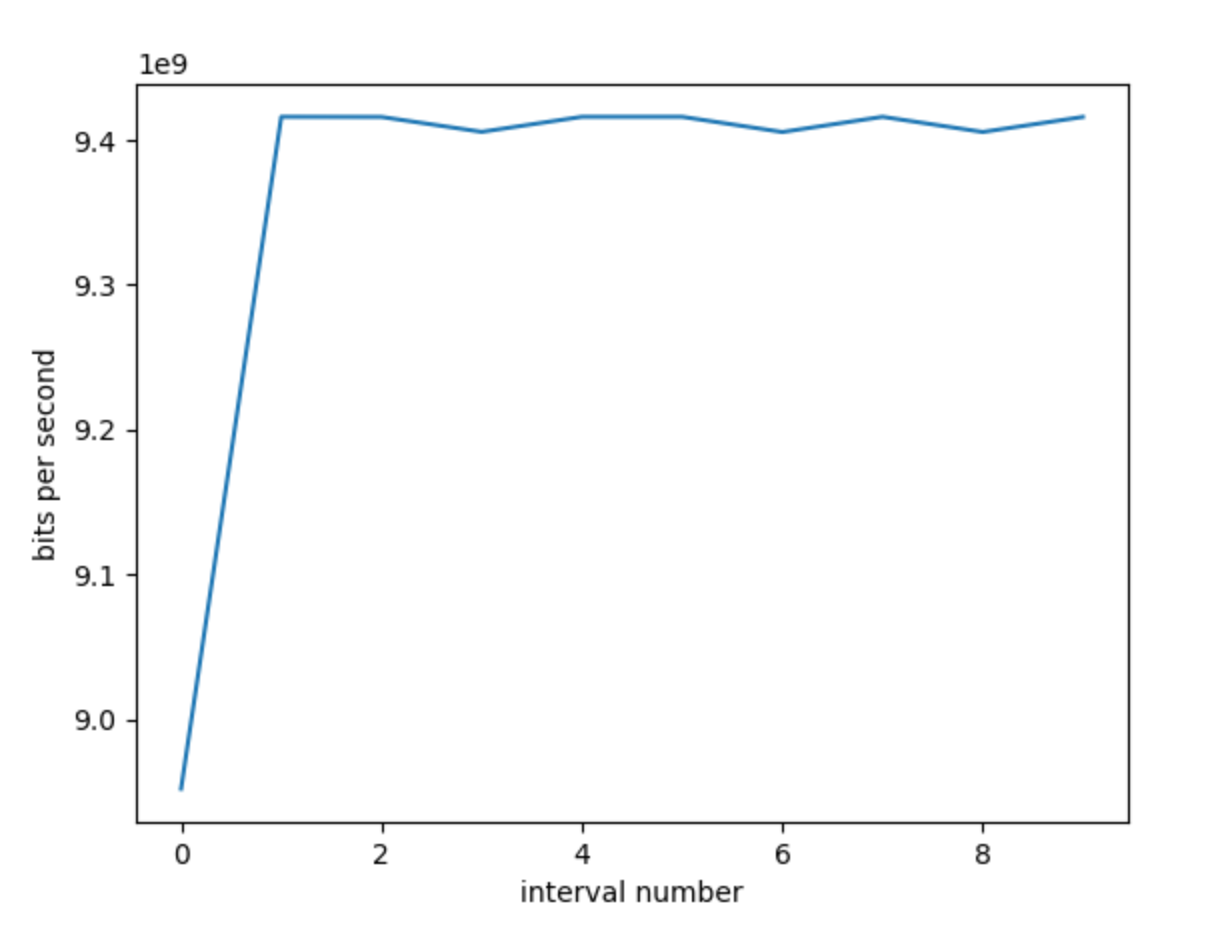
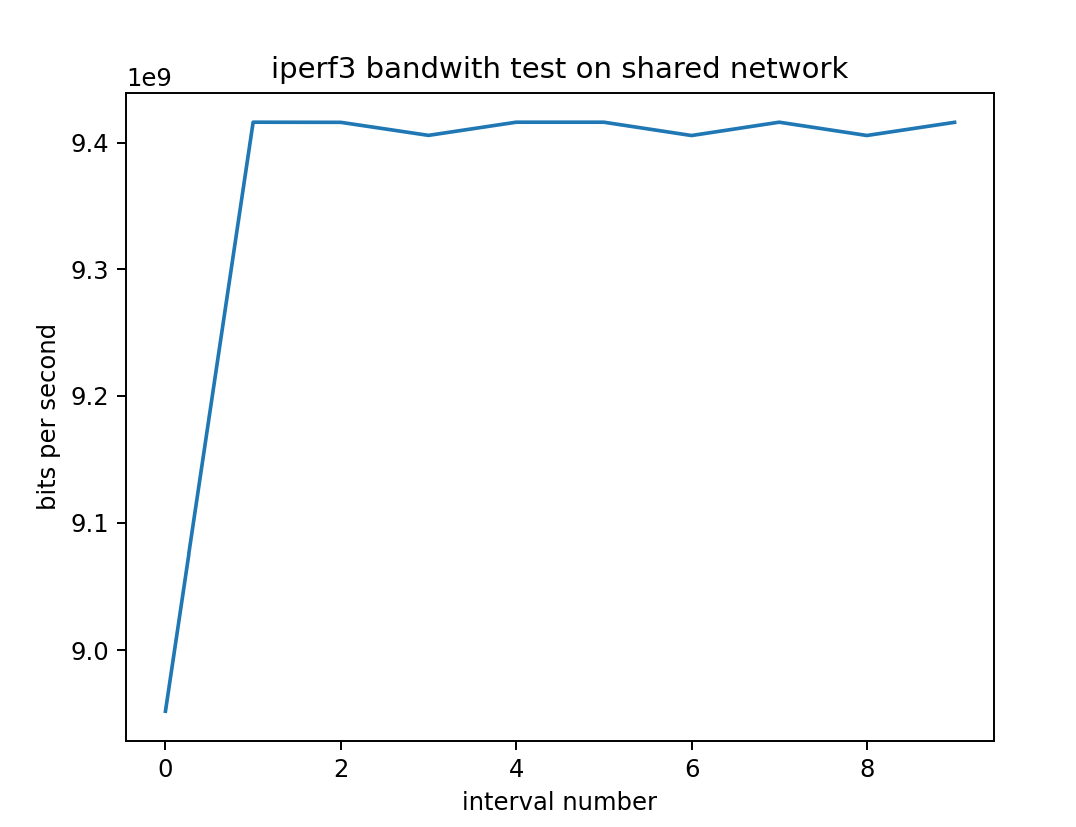
graph title, fixed weird formatting problem

Changed region(s): [[0.0307, 0.0605, 0.9507, 0.9976]]

diff --git a/plot_results.py b/plot_results.py
@@ -17,6 +17,7 @@ def read_data(file):
 
 def plot(data):
     plt.plot(data)
+    plt.title("iperf3 bandwith test on shared network")
     plt.xlabel("interval number")
     plt.ylabel("bits per second")
     plt.show()
